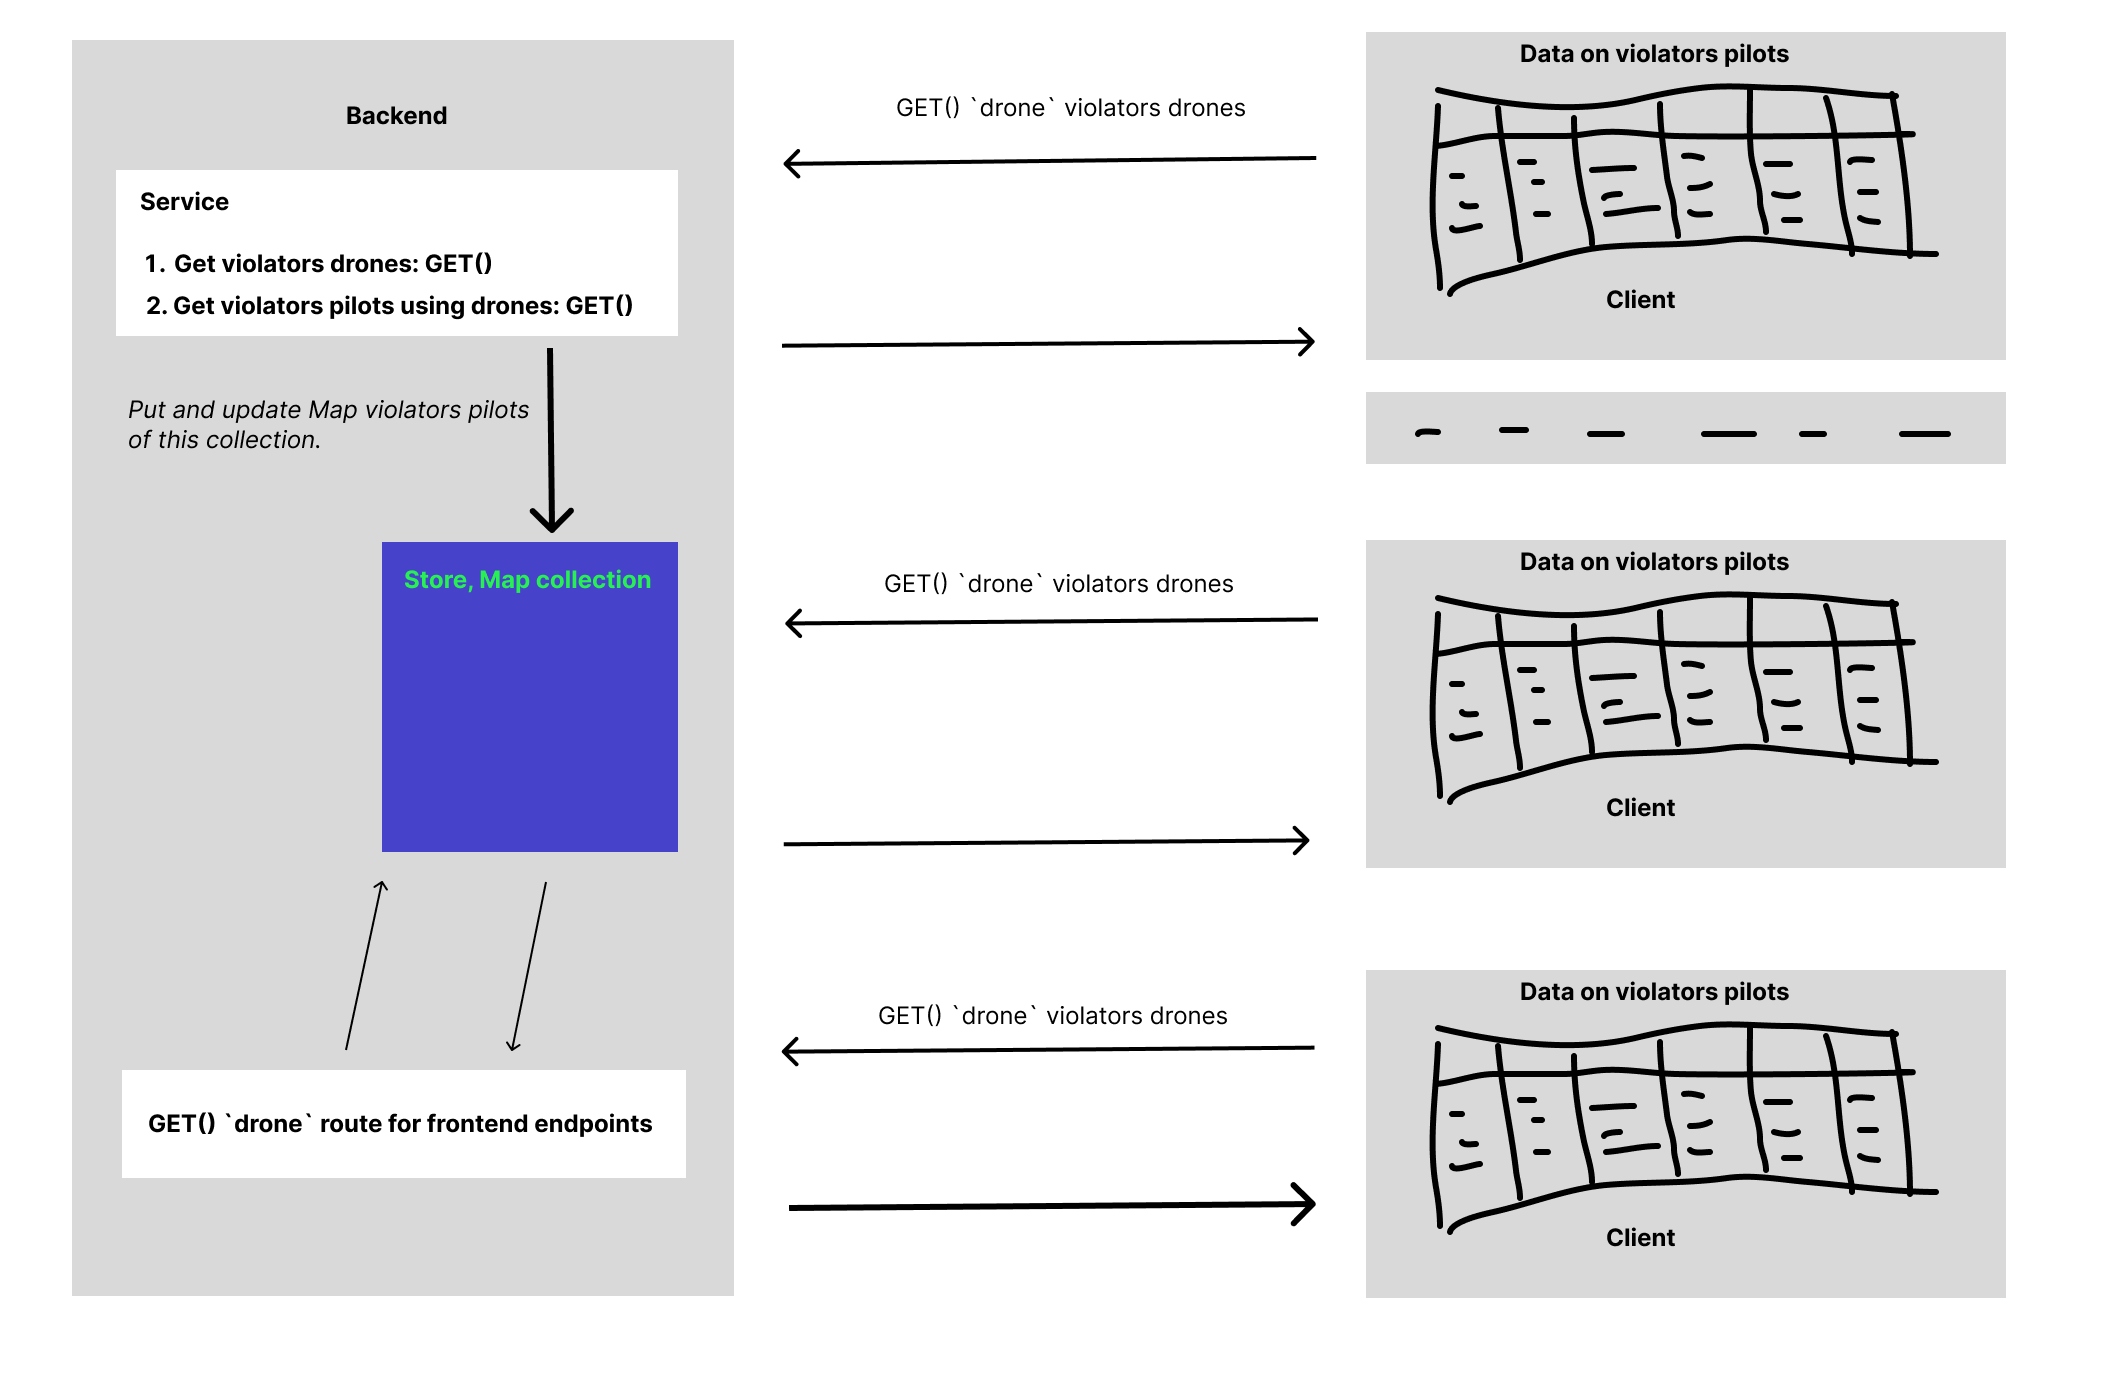
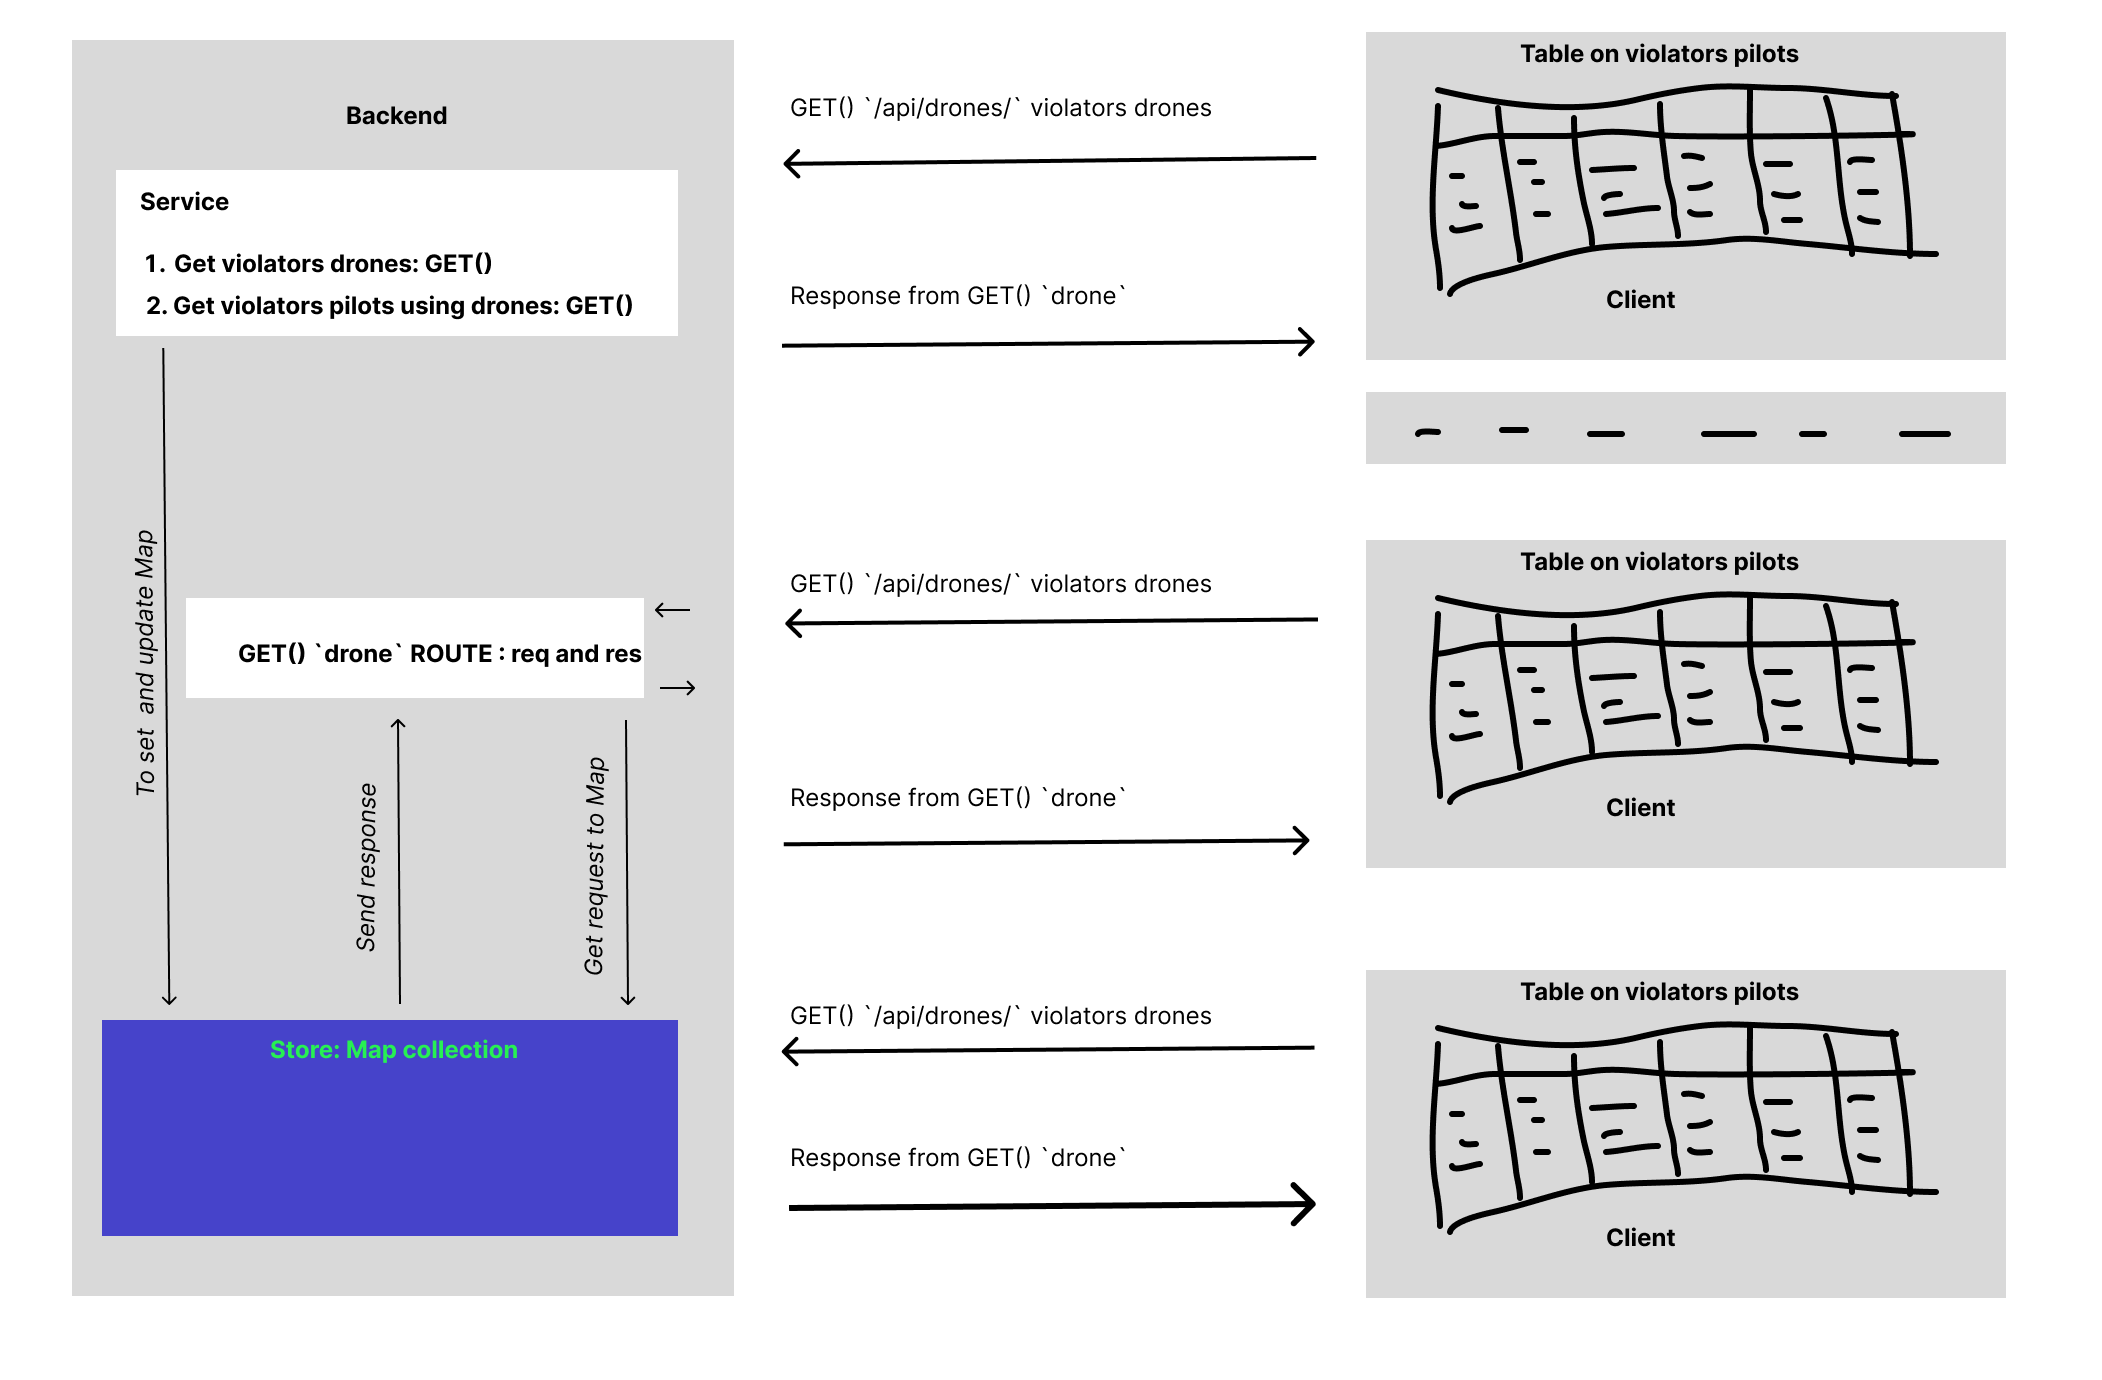
Readme version 5 (#33)
* was updated readme.md

* were updated: formatTime() function and test to it

* were updated .PNG picture from figma for diagram

diff --git a/utils/formatTime/formatTime.test.js b/utils/formatTime/formatTime.test.js
@@ -3,7 +3,7 @@ import { formatTime } from './formatTime';
 describe('testing function formatTime(), right values', () => {
     it("should return date in new format", () => {
         const result = formatTime('2022-12-11T19:48:16.956Z')
-        expect(result).toBe('11.12.2022 19:48:16');
+        expect(result).toBe('11.12.2022 19:48:16 in UTC');
     });
 
     it("should return stub message", () => {
@@ -13,27 +13,27 @@ describe('testing function formatTime(), right values', () => {
 
     it("should return day with zero: 2022-12-05T19:48:16.956Z", () => {
         const result = formatTime('2022-12-05T19:48:16.956Z')
-        expect(result).toBe('05.12.2022 19:48:16');
+        expect(result).toBe('05.12.2022 19:48:16 in UTC');
     });
 
     it("should return month with zero: 05.07.2022 19:48:16", () => {
         const result = formatTime('2022-07-05T19:48:16.956Z')
-        expect(result).toBe('05.07.2022 19:48:16');
+        expect(result).toBe('05.07.2022 19:48:16 in UTC');
     });
 
     it("should return hour with zero: 15.07.2022 09:48:16", () => {
         const result = formatTime('2022-07-15T09:48:16.956Z')
-        expect(result).toBe('15.07.2022 09:48:16');
+        expect(result).toBe('15.07.2022 09:48:16 in UTC');
     });
 
     it("should return minute with zero: 15.07.2022 19:03:16", () => {
         const result = formatTime('2022-07-15T19:03:16.956Z')
-        expect(result).toBe('15.07.2022 19:03:16');
+        expect(result).toBe('15.07.2022 19:03:16 in UTC');
     });
 
     it("should return second with zero: 15.07.2022 19:33:04", () => {
         const result = formatTime('2022-07-15T19:33:04.956Z')
-        expect(result).toBe('15.07.2022 19:33:04');
+        expect(result).toBe('15.07.2022 19:33:04 in UTC');
     });
 
 });

diff --git a/utils/formatTime/formatTime.ts b/utils/formatTime/formatTime.ts
@@ -20,5 +20,5 @@ export function formatTime(dateTime: string): string {
     const secondsUTC = date.getUTCSeconds();
     const seconds: string = secondsUTC < 10 ? `0${secondsUTC}` : String(secondsUTC);
 
-    return `${day}.${month}.${year} ${hours}:${minutes}:${seconds}`;
+    return `${day}.${month}.${year} ${hours}:${minutes}:${seconds} in UTC`;
 }

diff --git a/README.md b/README.md
@@ -139,43 +139,43 @@ I have decided to work on this project as if it is real production project. For 
 - Readme.md, some refactoring and PostMan
 
 
-First sprint. I have decided to take NextJs because this variant has SSR and React. 
-And store is just `Map() collection` at JS.
-
+1. First sprint.  
+I have decided to take NextJs because this variant has SSR and React. 
+And store is just `Map() collection` at JS.  
 I had some variants in my head like PHP+JS, React+ExpressJS or just React with polling.
 For storing data I can take DB like MySQL or MongoDB or noSQL like Redis.
-Also, I had variant where is using Redis pub/sub.
-
-In my opinion all these ways are too redundant and complex, and I can use better way.
-
+Also, I had variant where is using Redis pub/sub.  
+In my opinion all these ways are too redundant and complex, and I can use better way.  
 Actually, I think it is NextJS with SSR+React under hood. Map collection is a good way in order to store these data because
 To use any DBs is also too redundant and complex for this task.
 
-Next one sprint.
+2. Next one sprint.  
 That was development of both sides.
 
-Next one sprint.
+3. Next one sprint.  
 That was adding basic UI in order to show table with violators-pilots.
 Also, there you can find expended version (just to use checkbox) where is providing some additional information about each pilot violator. 
 
-Next one sprint.
+4. Next one sprint.  
 TypeScript is good solution in order to get strict typing. We can add it at any step of project.
 
-Next one sprint.
+5. Next one sprint.  
 I think that a better way to add `tests` before development, but I had investigating what kind of development I have to choose.
-Next one sprint. It is very important thing to run tests before merge with main branch on GitHub.
 
-Next one sprint.
+6. Next one sprint.  
+It is very important thing to run tests before merge with main branch on GitHub.
+
+7. Next one sprint.  
 Vercel is mother company for NextJS so this company provides deploy service for applications which were created at NextJs.
 This their feature goes from the box.
 It is a good thing because application is hosted at free hosting and Vercel system gets new commits from GitHub automatically and then redeploy application.
 
-Next one sprint.
+8. Next one sprint.  
 Docker is very good tool to run application on any machine. For example, I have run this application
 on gcloud instance in few steps.
 I use simple Dockerfile because this application provides just one container. If application has some containers so in that case a better way to use `docker-compose`.
 
-Next one sprint.
+9. Next one sprint.  
 It is necessary to fill this README.md.
 There will a little refactoring some pixels of code.
 Also, I think it will a good thing to use Postman in order to keep frontend endpoints because
